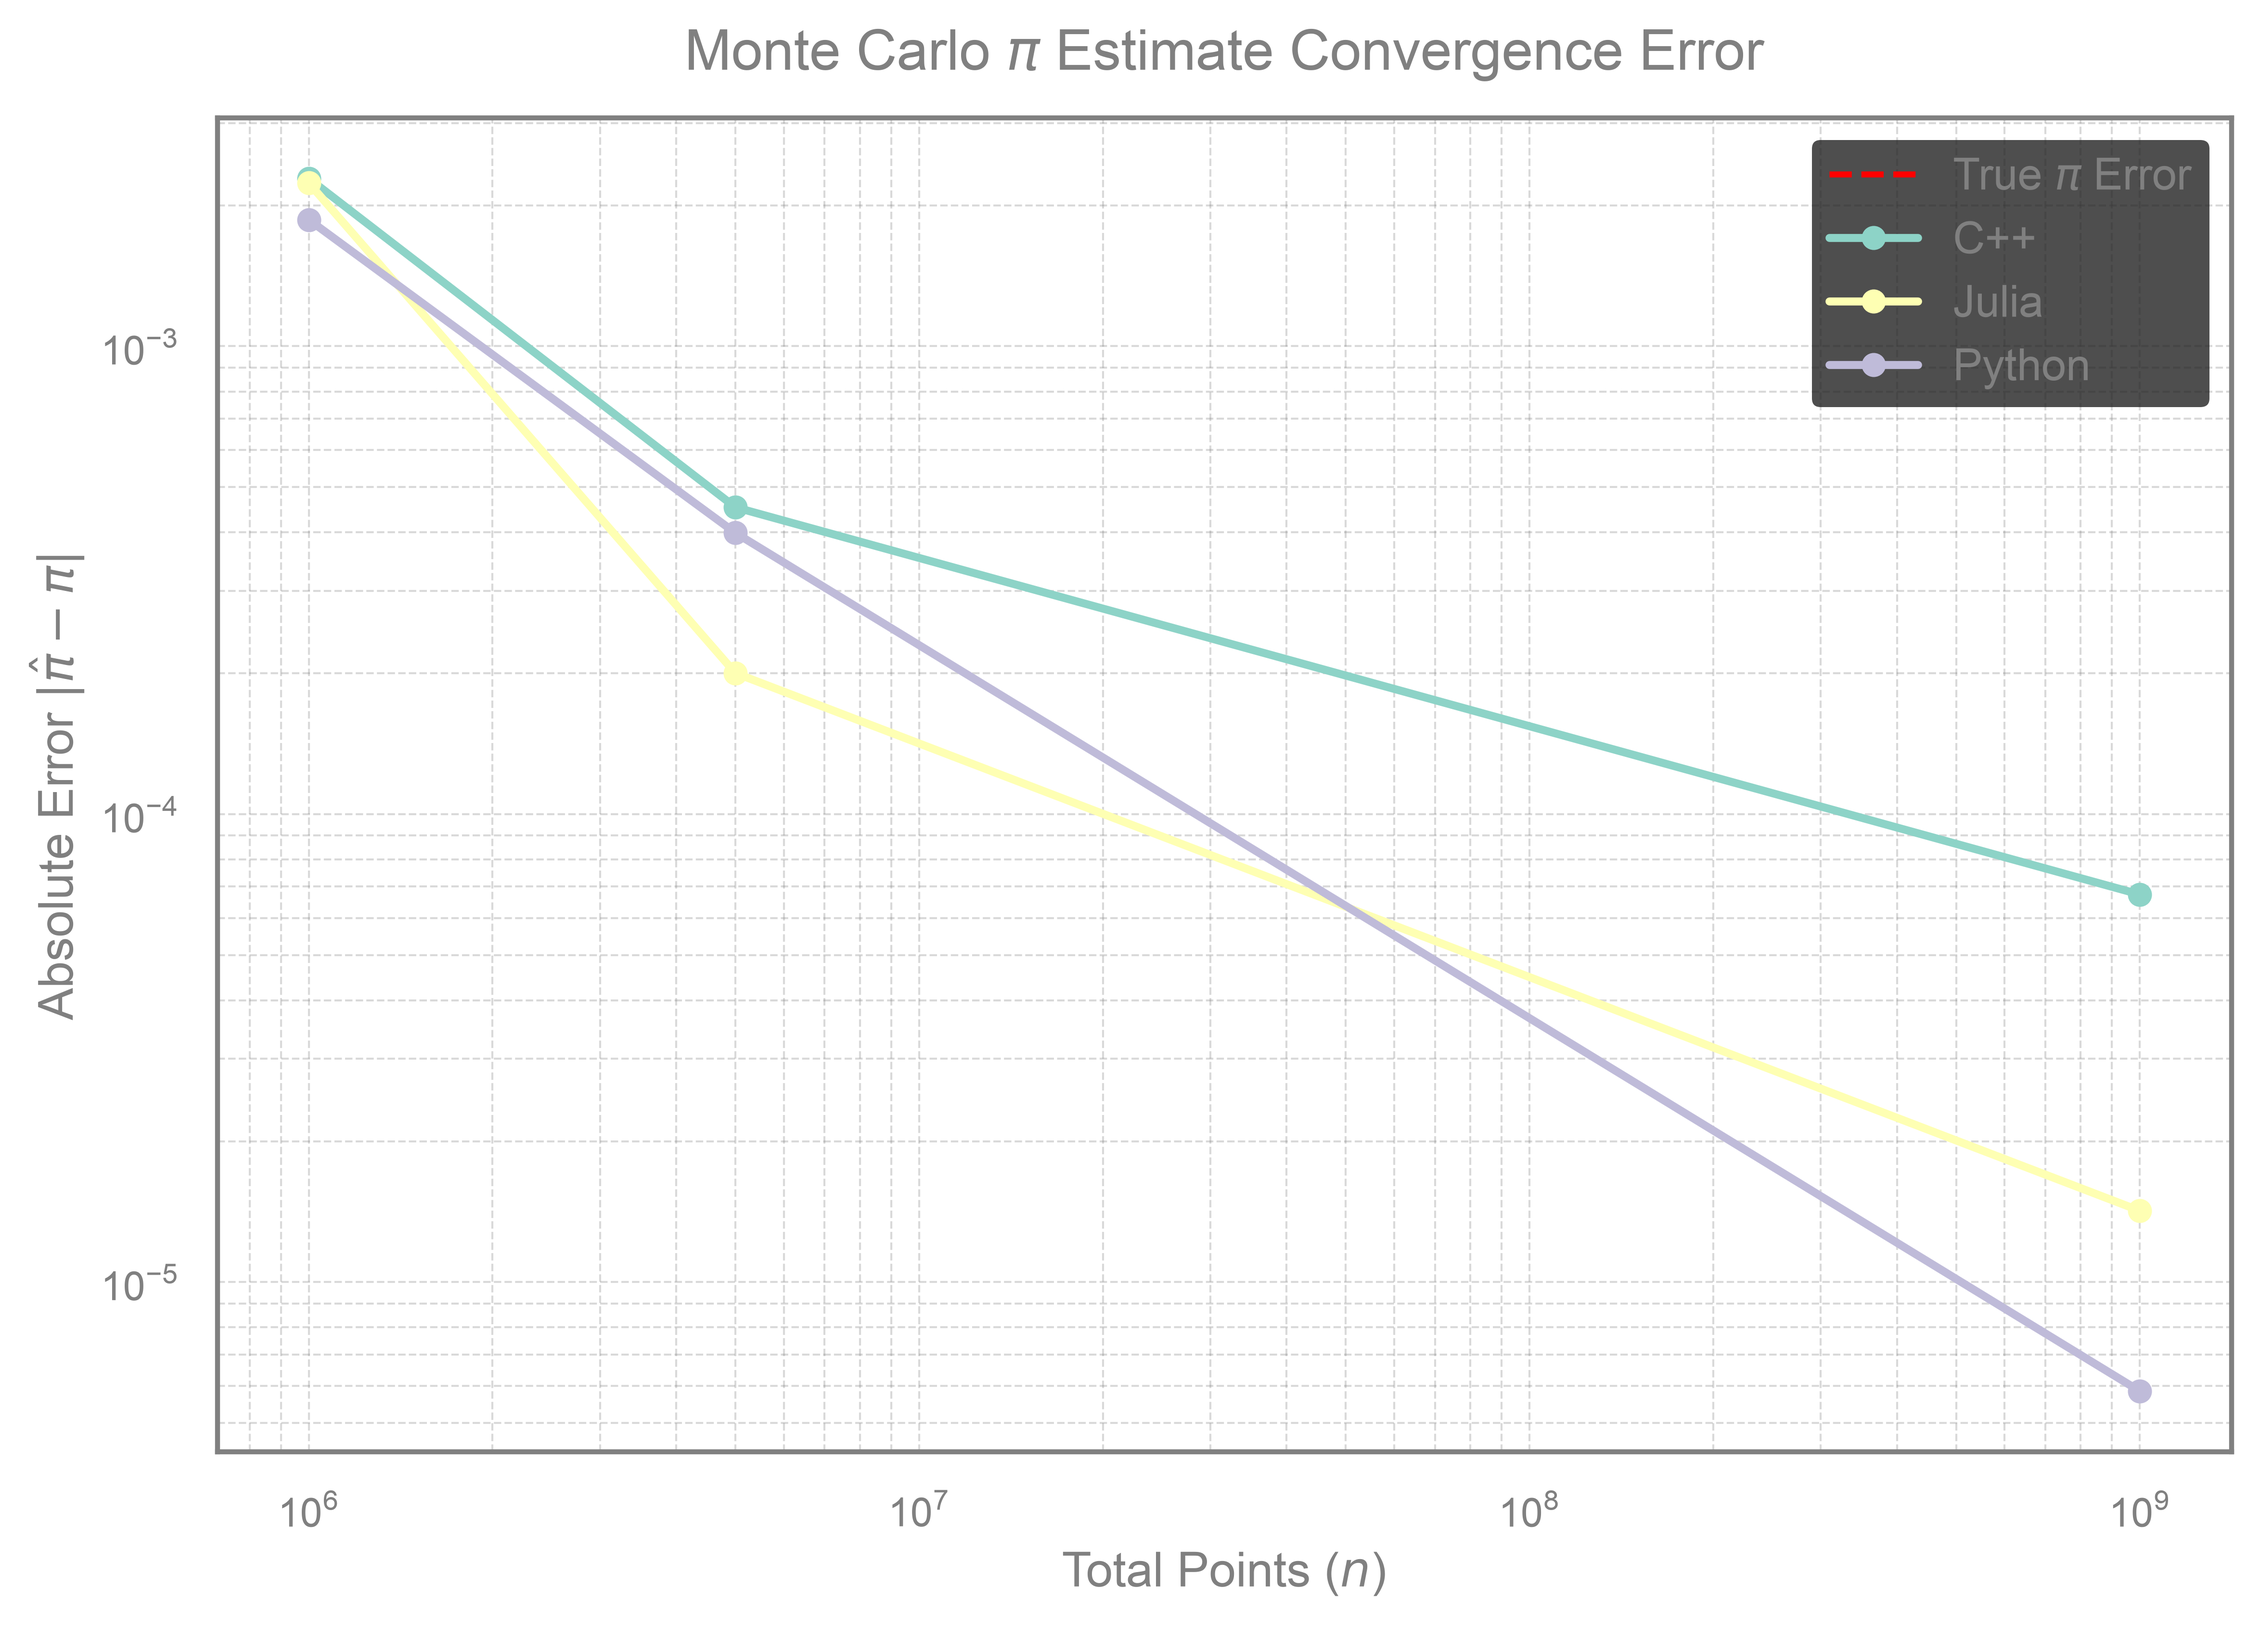
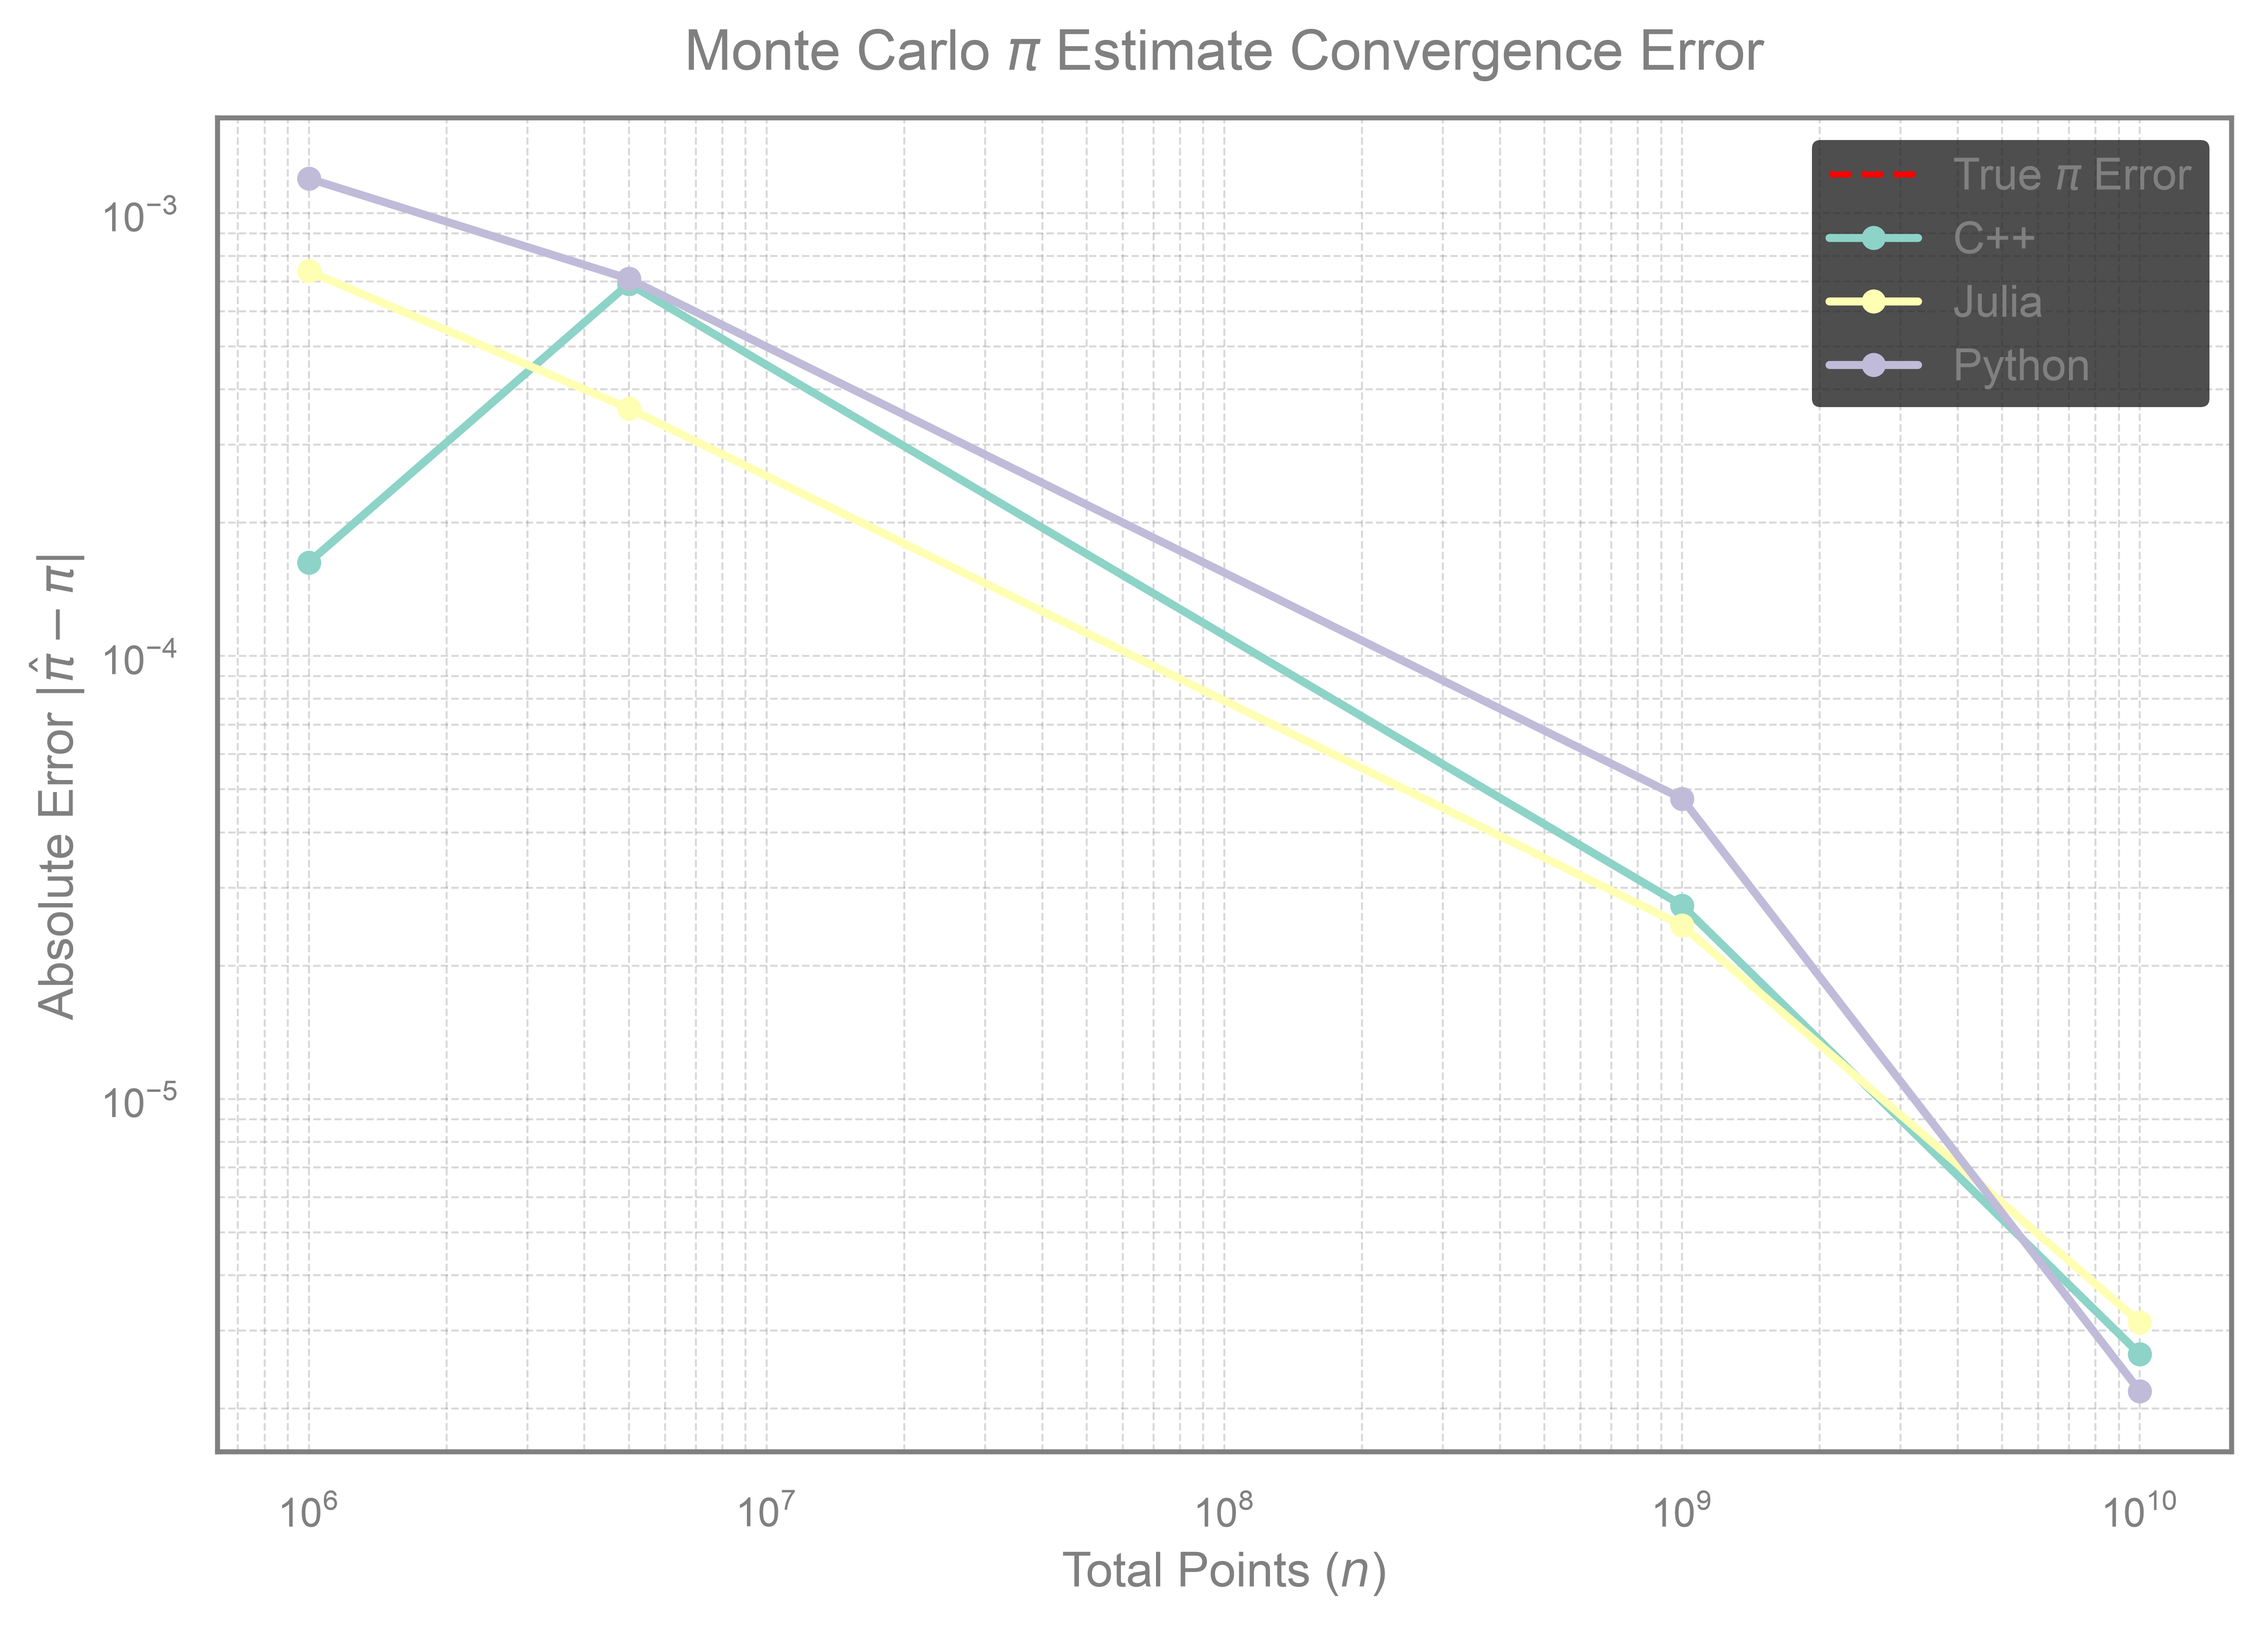
take into account all 4 points

diff --git a/monte-carlo-pi-approximation/report/create_plots.py b/monte-carlo-pi-approximation/report/create_plots.py
@@ -15,7 +15,7 @@ LOG_FILES = {
 }
 
 # Values corresponding to evaluation inputs
-POINTS = [1_000_000, 5_000_000, 1_000_000_000]
+POINTS = [1_000_000, 5_000_000, 1_000_000_000, 10_000_000_000]
 
 def parse_log(filepath):
     """Extracts pi estimates and execution times (in seconds) from log files."""
